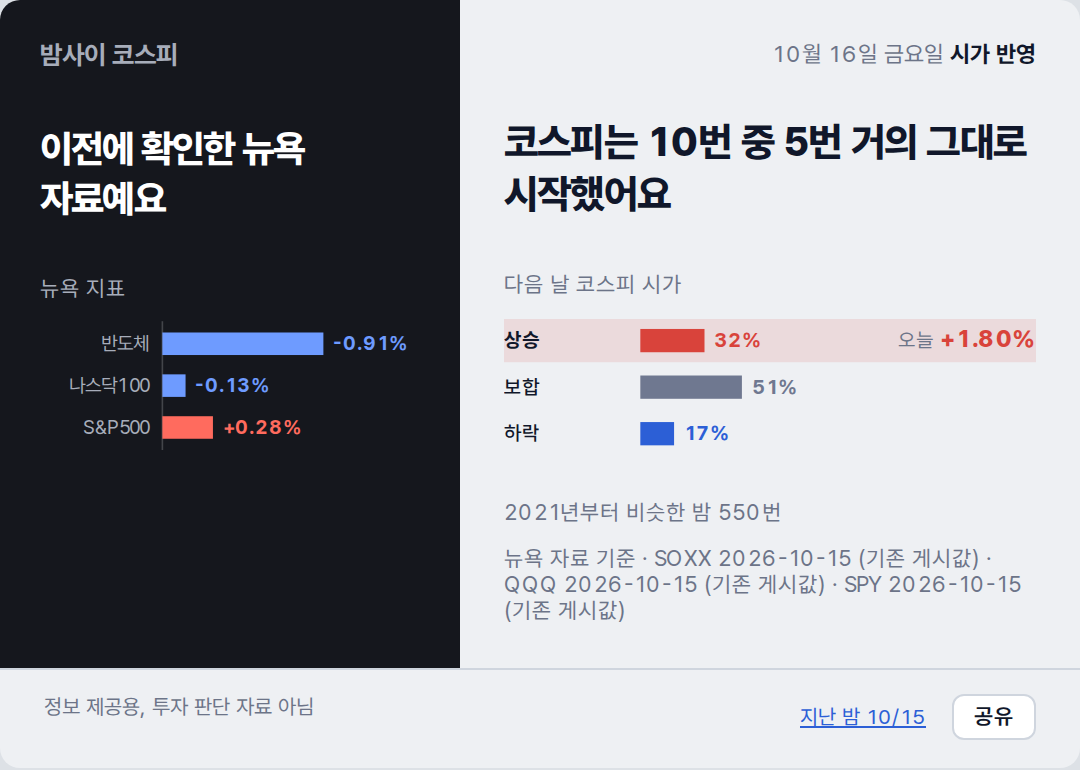
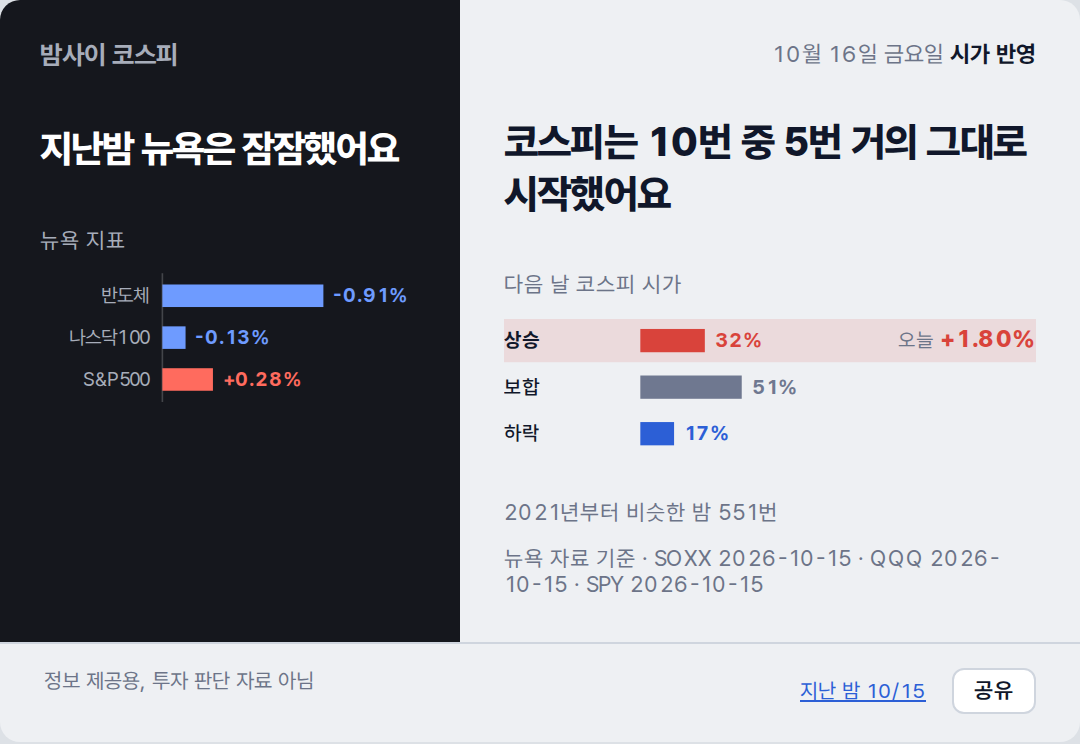
deploy: e2553a3dfdeb836253db534a4541b2f82c15194e

diff --git a/2026-10-16/index.html b/2026-10-16/index.html
@@ -2,7 +2,7 @@
 <title>밤사이 코스피 · 2026-10-16</title>
 <meta name="description" content="전일 코스피 마감에서 밤사이 뉴욕을 거쳐 오늘 코스피 시가까지, 한 장.">
 <meta property="og:type" content="article"><meta property="og:site_name" content="밤사이 코스피"><meta property="og:url" content="https://mjs0611.github.io/kospi-relay/2026-10-16/">
-<meta property="og:title" content="이전에 확인한 뉴욕 자료예요"><meta property="og:description" content="코스피는 10번 중 5번 거의 그대로 시작했어요">
+<meta property="og:title" content="지난밤 뉴욕은 잠잠했어요"><meta property="og:description" content="코스피는 10번 중 5번 거의 그대로 시작했어요">
 <meta property="og:image" content="https://mjs0611.github.io/kospi-relay/2026-10-16/relay.png"><meta property="og:image:width" content="1080"><meta name="twitter:card" content="summary_large_image">
 <link rel="stylesheet" href="https://cdn.jsdelivr.net/gh/orioncactus/pretendard@v1.3.9/dist/web/variable/pretendardvariable-dynamic-subset.min.css">
 <style>
@@ -26,7 +26,7 @@ footer a{color:#2C5FD6}
 .share{margin-left:10px;border:1px solid #CFD5DE;background:#FFF;color:#10172A;border-radius:6px;padding:4px 10px;font:600 11px var(--sans);cursor:pointer}
 @media (max-width:480px){.sheet{grid-template-columns:1fr}.cond{margin-top:18px}.claim{margin-top:4px}}
 </style></head><body><div class="sheet">
-<section class="night"><p class="brand">밤사이 코스피</p><p class="cond">이전에 확인한 뉴욕 자료예요</p><p class="lab">뉴욕 지표</p><svg viewBox="0 0 236 84" xmlns="http://www.w3.org/2000/svg" font-family="var(--sans)" font-size="12">
+<section class="night"><p class="brand">밤사이 코스피</p><p class="cond">지난밤 뉴욕은 잠잠했어요</p><p class="lab">뉴욕 지표</p><svg viewBox="0 0 236 84" xmlns="http://www.w3.org/2000/svg" font-family="var(--sans)" font-size="12">
 <line x1="76" y1="2" x2="76" y2="82" stroke="var(--rule)" stroke-width="1"/>
 <text x="68" y="20" text-anchor="end" fill="var(--muted)">반도체</text>
 <rect x="76" y="9" width="100.0" height="14" fill="var(--down)"/>
@@ -41,21 +41,21 @@ footer a{color:#2C5FD6}
 <section class="day"><p class="stamp">10월 16일 금요일 <b>시가 반영</b></p><p class="claim">코스피는 10번 중 5번 거의 그대로 시작했어요</p><p class="lab">다음 날 코스피 시가</p><svg viewBox="0 0 320 100" xmlns="http://www.w3.org/2000/svg" font-family="var(--sans)" font-size="12">
 <rect x="0" y="3" width="320" height="26" fill="var(--up)" opacity=".12"/>
 <text x="0" y="20" fill="var(--ink)" font-weight="700">상승</text>
-<rect x="82" y="9" width="38.6" height="14" fill="var(--up)"/>
-<text x="126.6" y="20" fill="var(--up)" font-weight="700">32%</text>
+<rect x="82" y="9" width="38.8" height="14" fill="var(--up)"/>
+<text x="126.8" y="20" fill="var(--up)" font-weight="700">32%</text>
 <text x="320" y="20" text-anchor="end" fill="var(--ink)"><tspan fill="var(--muted)">오늘 </tspan><tspan font-weight="800" font-size="14" fill="var(--up)">+1.80%</tspan></text>
 <text x="0" y="48" fill="var(--ink)" font-weight="500">보합</text>
-<rect x="82" y="37" width="61.1" height="14" fill="var(--flat)"/>
-<text x="149.1" y="48" fill="var(--flat)" font-weight="700">51%</text>
+<rect x="82" y="37" width="61.0" height="14" fill="var(--flat)"/>
+<text x="149.0" y="48" fill="var(--flat)" font-weight="700">51%</text>
 <text x="0" y="76" fill="var(--ink)" font-weight="500">하락</text>
 <rect x="82" y="65" width="20.3" height="14" fill="var(--down)"/>
 <text x="108.3" y="76" fill="var(--down)" font-weight="700">17%</text>
-</svg><p class="cap">2021년부터 비슷한 밤 550번</p><p class="cap">뉴욕 자료 기준 · SOXX 2026-10-15 (기존 게시값) · QQQ 2026-10-15 (기존 게시값) · SPY 2026-10-15 (기존 게시값)</p></section>
+</svg><p class="cap">2021년부터 비슷한 밤 551번</p><p class="cap">뉴욕 자료 기준 · SOXX 2026-10-15 · QQQ 2026-10-15 · SPY 2026-10-15</p></section>
 <footer><span>정보 제공용, 투자 판단 자료 아님</span><span style="white-space:nowrap"><a href="../2026-10-15/">지난 밤 10/15</a> <button class="share" type="button">공유</button></span></footer>
 <script>
 /* 공유: Web Share가 있으면 시스템 공유 시트, 없으면 링크 복사. 링크는 이 날짜 페이지(OG 카드 붙음) */
 document.querySelector('.share').addEventListener('click', async function () {
-  var url = 'https://mjs0611.github.io/kospi-relay/2026-10-16/', text = "이전에 확인한 뉴욕 자료예요. 코스피는 10번 중 5번 거의 그대로 시작했어요";
+  var url = 'https://mjs0611.github.io/kospi-relay/2026-10-16/', text = "지난밤 뉴욕은 잠잠했어요. 코스피는 10번 중 5번 거의 그대로 시작했어요";
   try { if (navigator.share) { await navigator.share({ title: '밤사이 코스피', text: text, url: url }); return; } } catch (e) { if (e && e.name === 'AbortError') return; }
   try { await navigator.clipboard.writeText(text + '\n' + url); this.textContent = '링크 복사됨'; } catch (e) { location.href = url; }
 });

diff --git a/index.html b/index.html
@@ -2,7 +2,7 @@
 <title>밤사이 코스피 · 2026-10-16</title>
 <meta name="description" content="전일 코스피 마감에서 밤사이 뉴욕을 거쳐 오늘 코스피 시가까지, 한 장.">
 <meta property="og:type" content="article"><meta property="og:site_name" content="밤사이 코스피"><meta property="og:url" content="https://mjs0611.github.io/kospi-relay/2026-10-16/">
-<meta property="og:title" content="이전에 확인한 뉴욕 자료예요"><meta property="og:description" content="코스피는 10번 중 5번 거의 그대로 시작했어요">
+<meta property="og:title" content="지난밤 뉴욕은 잠잠했어요"><meta property="og:description" content="코스피는 10번 중 5번 거의 그대로 시작했어요">
 <meta property="og:image" content="https://mjs0611.github.io/kospi-relay/2026-10-16/relay.png"><meta property="og:image:width" content="1080"><meta name="twitter:card" content="summary_large_image">
 <link rel="stylesheet" href="https://cdn.jsdelivr.net/gh/orioncactus/pretendard@v1.3.9/dist/web/variable/pretendardvariable-dynamic-subset.min.css">
 <style>
@@ -26,7 +26,7 @@ footer a{color:#2C5FD6}
 .share{margin-left:10px;border:1px solid #CFD5DE;background:#FFF;color:#10172A;border-radius:6px;padding:4px 10px;font:600 11px var(--sans);cursor:pointer}
 @media (max-width:480px){.sheet{grid-template-columns:1fr}.cond{margin-top:18px}.claim{margin-top:4px}}
 </style></head><body><div class="sheet">
-<section class="night"><p class="brand">밤사이 코스피</p><p class="cond">이전에 확인한 뉴욕 자료예요</p><p class="lab">뉴욕 지표</p><svg viewBox="0 0 236 84" xmlns="http://www.w3.org/2000/svg" font-family="var(--sans)" font-size="12">
+<section class="night"><p class="brand">밤사이 코스피</p><p class="cond">지난밤 뉴욕은 잠잠했어요</p><p class="lab">뉴욕 지표</p><svg viewBox="0 0 236 84" xmlns="http://www.w3.org/2000/svg" font-family="var(--sans)" font-size="12">
 <line x1="76" y1="2" x2="76" y2="82" stroke="var(--rule)" stroke-width="1"/>
 <text x="68" y="20" text-anchor="end" fill="var(--muted)">반도체</text>
 <rect x="76" y="9" width="100.0" height="14" fill="var(--down)"/>
@@ -41,21 +41,21 @@ footer a{color:#2C5FD6}
 <section class="day"><p class="stamp">10월 16일 금요일 <b>시가 반영</b></p><p class="claim">코스피는 10번 중 5번 거의 그대로 시작했어요</p><p class="lab">다음 날 코스피 시가</p><svg viewBox="0 0 320 100" xmlns="http://www.w3.org/2000/svg" font-family="var(--sans)" font-size="12">
 <rect x="0" y="3" width="320" height="26" fill="var(--up)" opacity=".12"/>
 <text x="0" y="20" fill="var(--ink)" font-weight="700">상승</text>
-<rect x="82" y="9" width="38.6" height="14" fill="var(--up)"/>
-<text x="126.6" y="20" fill="var(--up)" font-weight="700">32%</text>
+<rect x="82" y="9" width="38.8" height="14" fill="var(--up)"/>
+<text x="126.8" y="20" fill="var(--up)" font-weight="700">32%</text>
 <text x="320" y="20" text-anchor="end" fill="var(--ink)"><tspan fill="var(--muted)">오늘 </tspan><tspan font-weight="800" font-size="14" fill="var(--up)">+1.80%</tspan></text>
 <text x="0" y="48" fill="var(--ink)" font-weight="500">보합</text>
-<rect x="82" y="37" width="61.1" height="14" fill="var(--flat)"/>
-<text x="149.1" y="48" fill="var(--flat)" font-weight="700">51%</text>
+<rect x="82" y="37" width="61.0" height="14" fill="var(--flat)"/>
+<text x="149.0" y="48" fill="var(--flat)" font-weight="700">51%</text>
 <text x="0" y="76" fill="var(--ink)" font-weight="500">하락</text>
 <rect x="82" y="65" width="20.3" height="14" fill="var(--down)"/>
 <text x="108.3" y="76" fill="var(--down)" font-weight="700">17%</text>
-</svg><p class="cap">2021년부터 비슷한 밤 550번</p><p class="cap">뉴욕 자료 기준 · SOXX 2026-10-15 (기존 게시값) · QQQ 2026-10-15 (기존 게시값) · SPY 2026-10-15 (기존 게시값)</p></section>
+</svg><p class="cap">2021년부터 비슷한 밤 551번</p><p class="cap">뉴욕 자료 기준 · SOXX 2026-10-15 · QQQ 2026-10-15 · SPY 2026-10-15</p></section>
 <footer><span>정보 제공용, 투자 판단 자료 아님</span><span style="white-space:nowrap"><a href="./2026-10-15/">지난 밤 10/15</a> <button class="share" type="button">공유</button></span></footer>
 <script>
 /* 공유: Web Share가 있으면 시스템 공유 시트, 없으면 링크 복사. 링크는 이 날짜 페이지(OG 카드 붙음) */
 document.querySelector('.share').addEventListener('click', async function () {
-  var url = 'https://mjs0611.github.io/kospi-relay/2026-10-16/', text = "이전에 확인한 뉴욕 자료예요. 코스피는 10번 중 5번 거의 그대로 시작했어요";
+  var url = 'https://mjs0611.github.io/kospi-relay/2026-10-16/', text = "지난밤 뉴욕은 잠잠했어요. 코스피는 10번 중 5번 거의 그대로 시작했어요";
   try { if (navigator.share) { await navigator.share({ title: '밤사이 코스피', text: text, url: url }); return; } } catch (e) { if (e && e.name === 'AbortError') return; }
   try { await navigator.clipboard.writeText(text + '\n' + url); this.textContent = '링크 복사됨'; } catch (e) { location.href = url; }
 });
